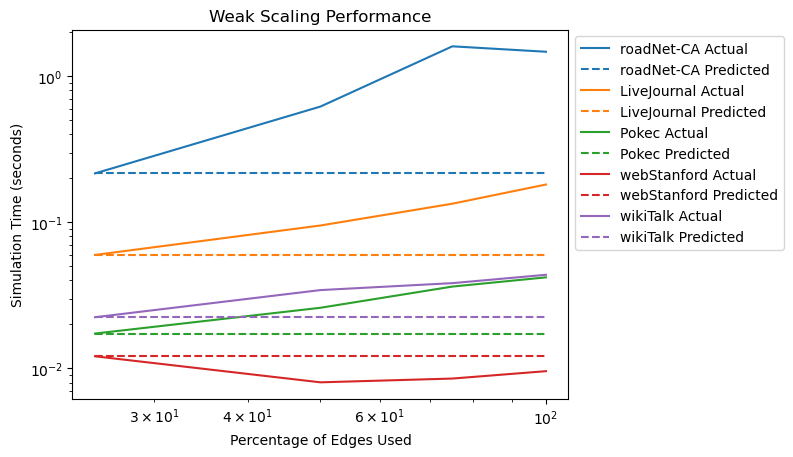
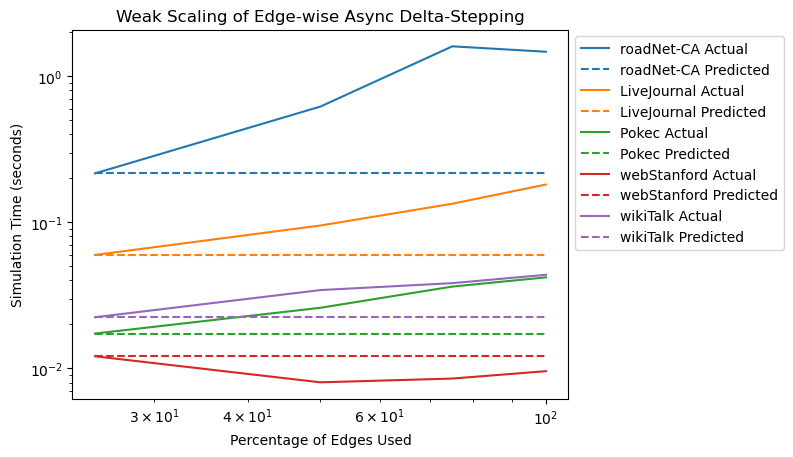
Update title of weak scaling graph

Changed region(s): [[0.1513, 0.0, 0.6658, 0.0613]]

diff --git a/perf/graph.py b/perf/graph.py
@@ -39,7 +39,7 @@ def plot_weak():
     shortnames['WikiTalk'] = 'wikiTalk'
 
     percentages = [25, 50, 75, 100]
-    plt.title('Weak Scaling Performance')
+    plt.title('Weak Scaling of Edge-wise Async Delta-Stepping')
     plt.xlabel('Percentage of Edges Used')
     plt.ylabel('Simulation Time (seconds)')
     plt.xscale('log')
